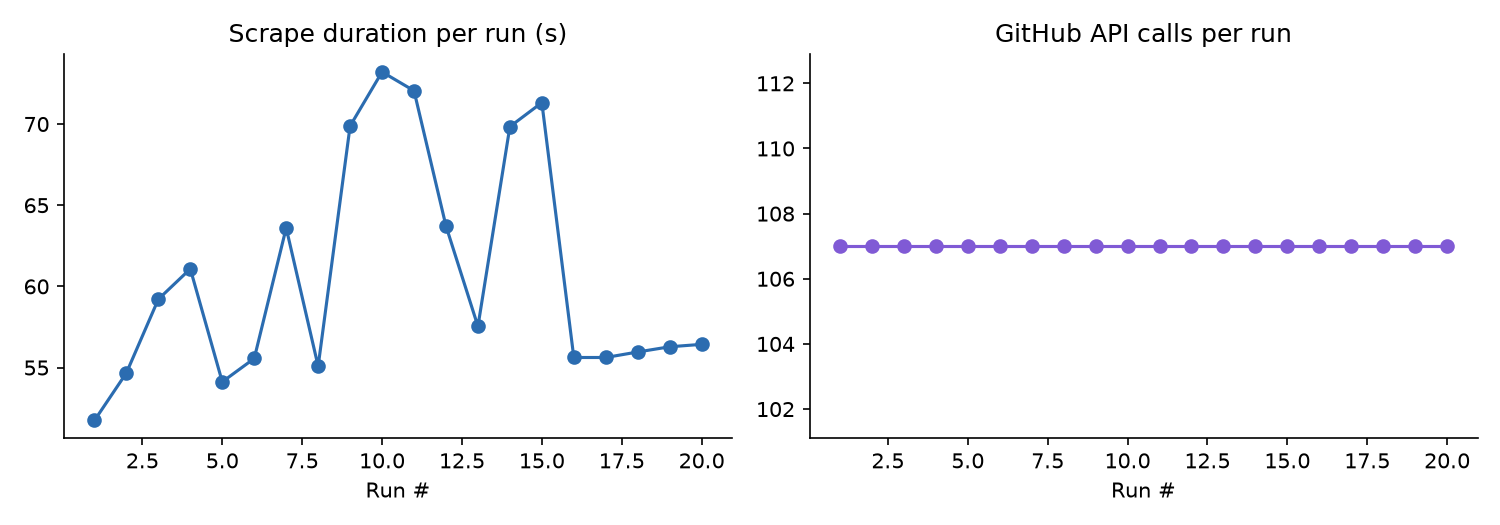
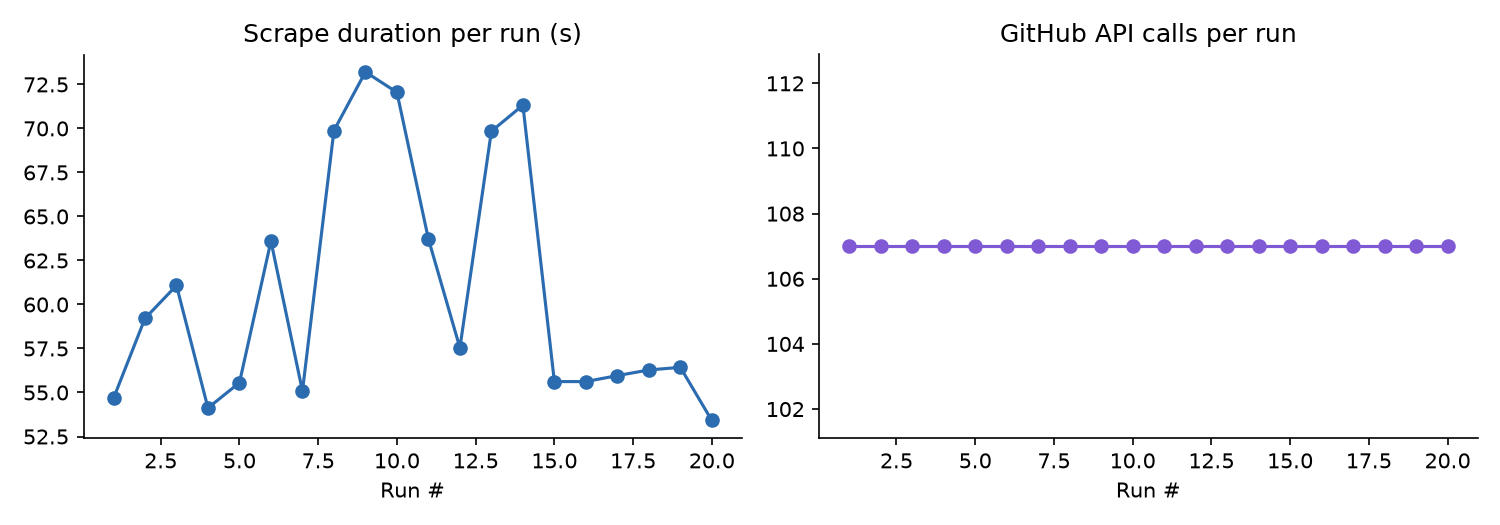
Weekly issue tracker refresh

diff --git a/README.md b/README.md
@@ -81,7 +81,7 @@ See [CONTRIBUTING.md](CONTRIBUTING.md) for the full contributor workflow — inc
 
 <!-- TRACKER:START -->
 
-_Last updated: 2026-07-23 18:45 UTC_
+_Last updated: 2026-07-23 19:15 UTC_
 
 _Tracking **18** upstream repos, **390** relevant open issues._
 
@@ -128,7 +128,7 @@ _Tracking **18** upstream repos, **390** relevant open issues._
 | ★★☆☆☆ | [#11365](https://github.com/ansible-collections/community.general/issues/11365) Pickle inventory cache always result in cache misses | bug, has_pr, cache, plugins | 5 | 2026-07-22 |
 | ★★☆☆☆ | [#12422](https://github.com/ansible-collections/community.general/issues/12422) lxc_container doesn't wait for returned IP | bug, module, plugins | 2 | 2026-07-20 |
 | ★★☆☆☆ | [#11331](https://github.com/ansible-collections/community.general/issues/11331) btrfs mountpoint scan does not account for symlinks | bug, module, has_pr, plugins | 6 | 2026-07-12 |
-| ★☆☆☆☆ | [#12478](https://github.com/ansible-collections/community.general/issues/12478) keycloak_realm: Control whether undefined realm attributes are pruned | feature, module, plugins | 2 | 2026-07-23 |
+| ★★☆☆☆ | [#12388](https://github.com/ansible-collections/community.general/issues/12388) consul_kv: deprecate and remove get_value | bug, module, plugins | 2 | 2026-07-12 |
 | ★☆☆☆☆ | [#12454](https://github.com/ansible-collections/community.general/issues/12454) nmcli: Option to set ipv4.route-table, ipv6.route-table | feature, module, plugins | 2 | 2026-07-22 |
 | ★☆☆☆☆ | [#11482](https://github.com/ansible-collections/community.general/issues/11482) Releasing, Versioning and Deprecation (2/N) | admin | 12 | 2026-07-13 |
 | ★☆☆☆☆ | [#12029](https://github.com/ansible-collections/community.general/issues/12029) Deprecate xml module's `print_match`, `count`, and `content` options | feature, module, has_pr, plugins | 3 | 2026-07-13 |
@@ -294,7 +294,7 @@ _Tracking **18** upstream repos, **390** relevant open issues._
 
 <!-- METRICS:START -->
 
-_Last run: 2026-07-23 18:44 UTC, took **56.4s**, **107** GitHub API calls, **4935/5000** rate limit remaining._
+_Last run: 2026-07-23 19:14 UTC, took **53.4s**, **107** GitHub API calls, **4829/5000** rate limit remaining._
 
 ![Scrape metrics trend](assets/metrics_trend.png)
 
